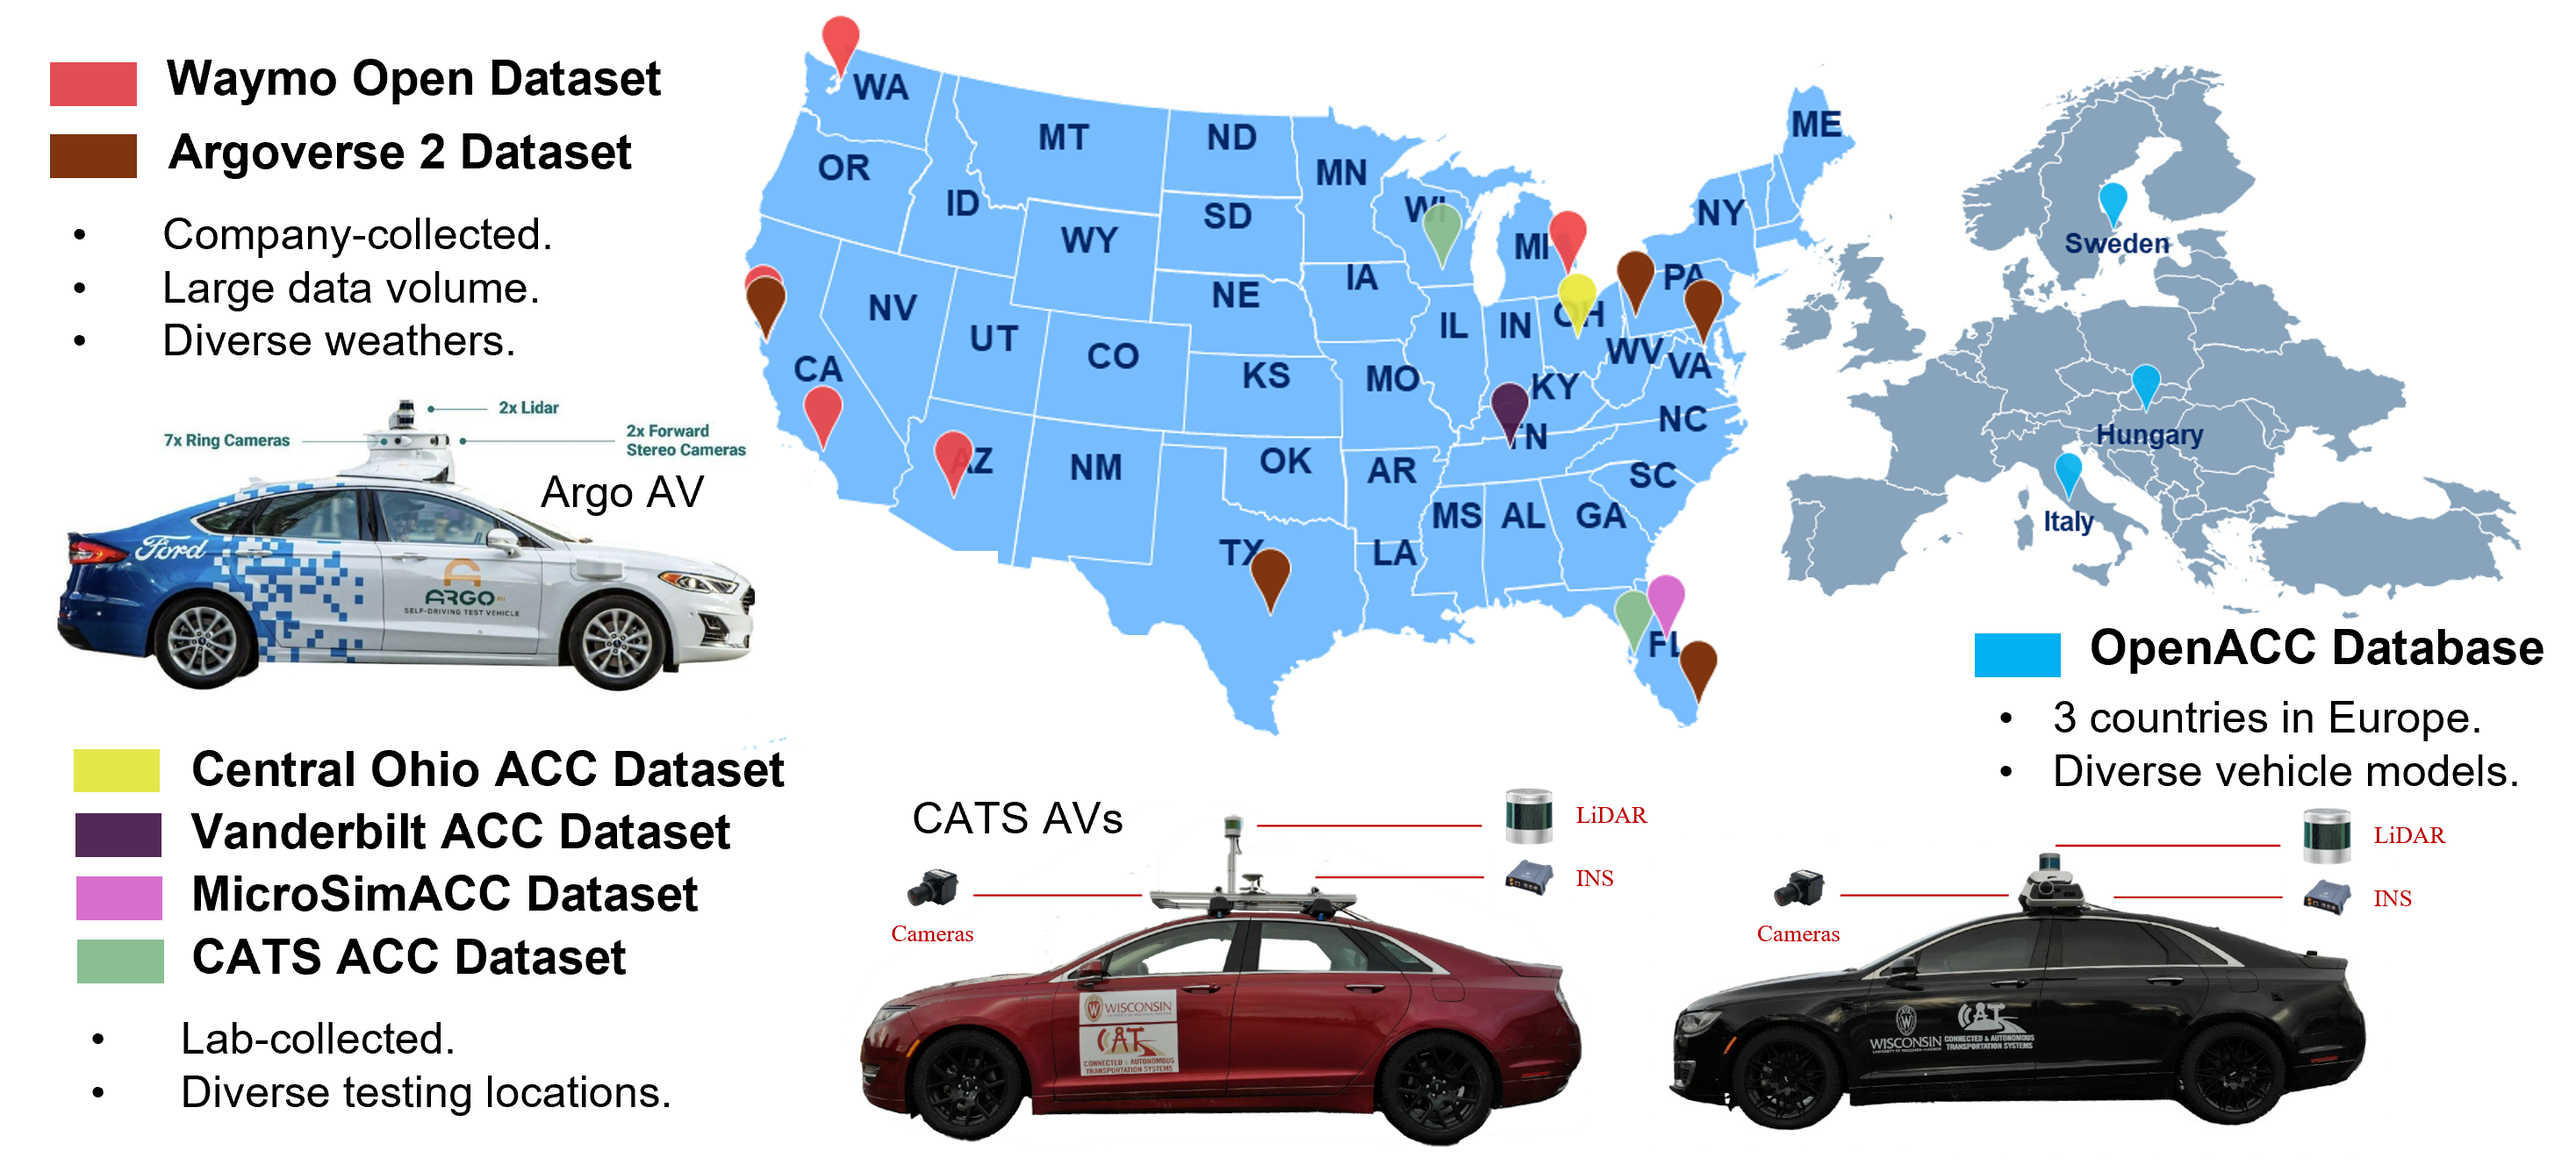
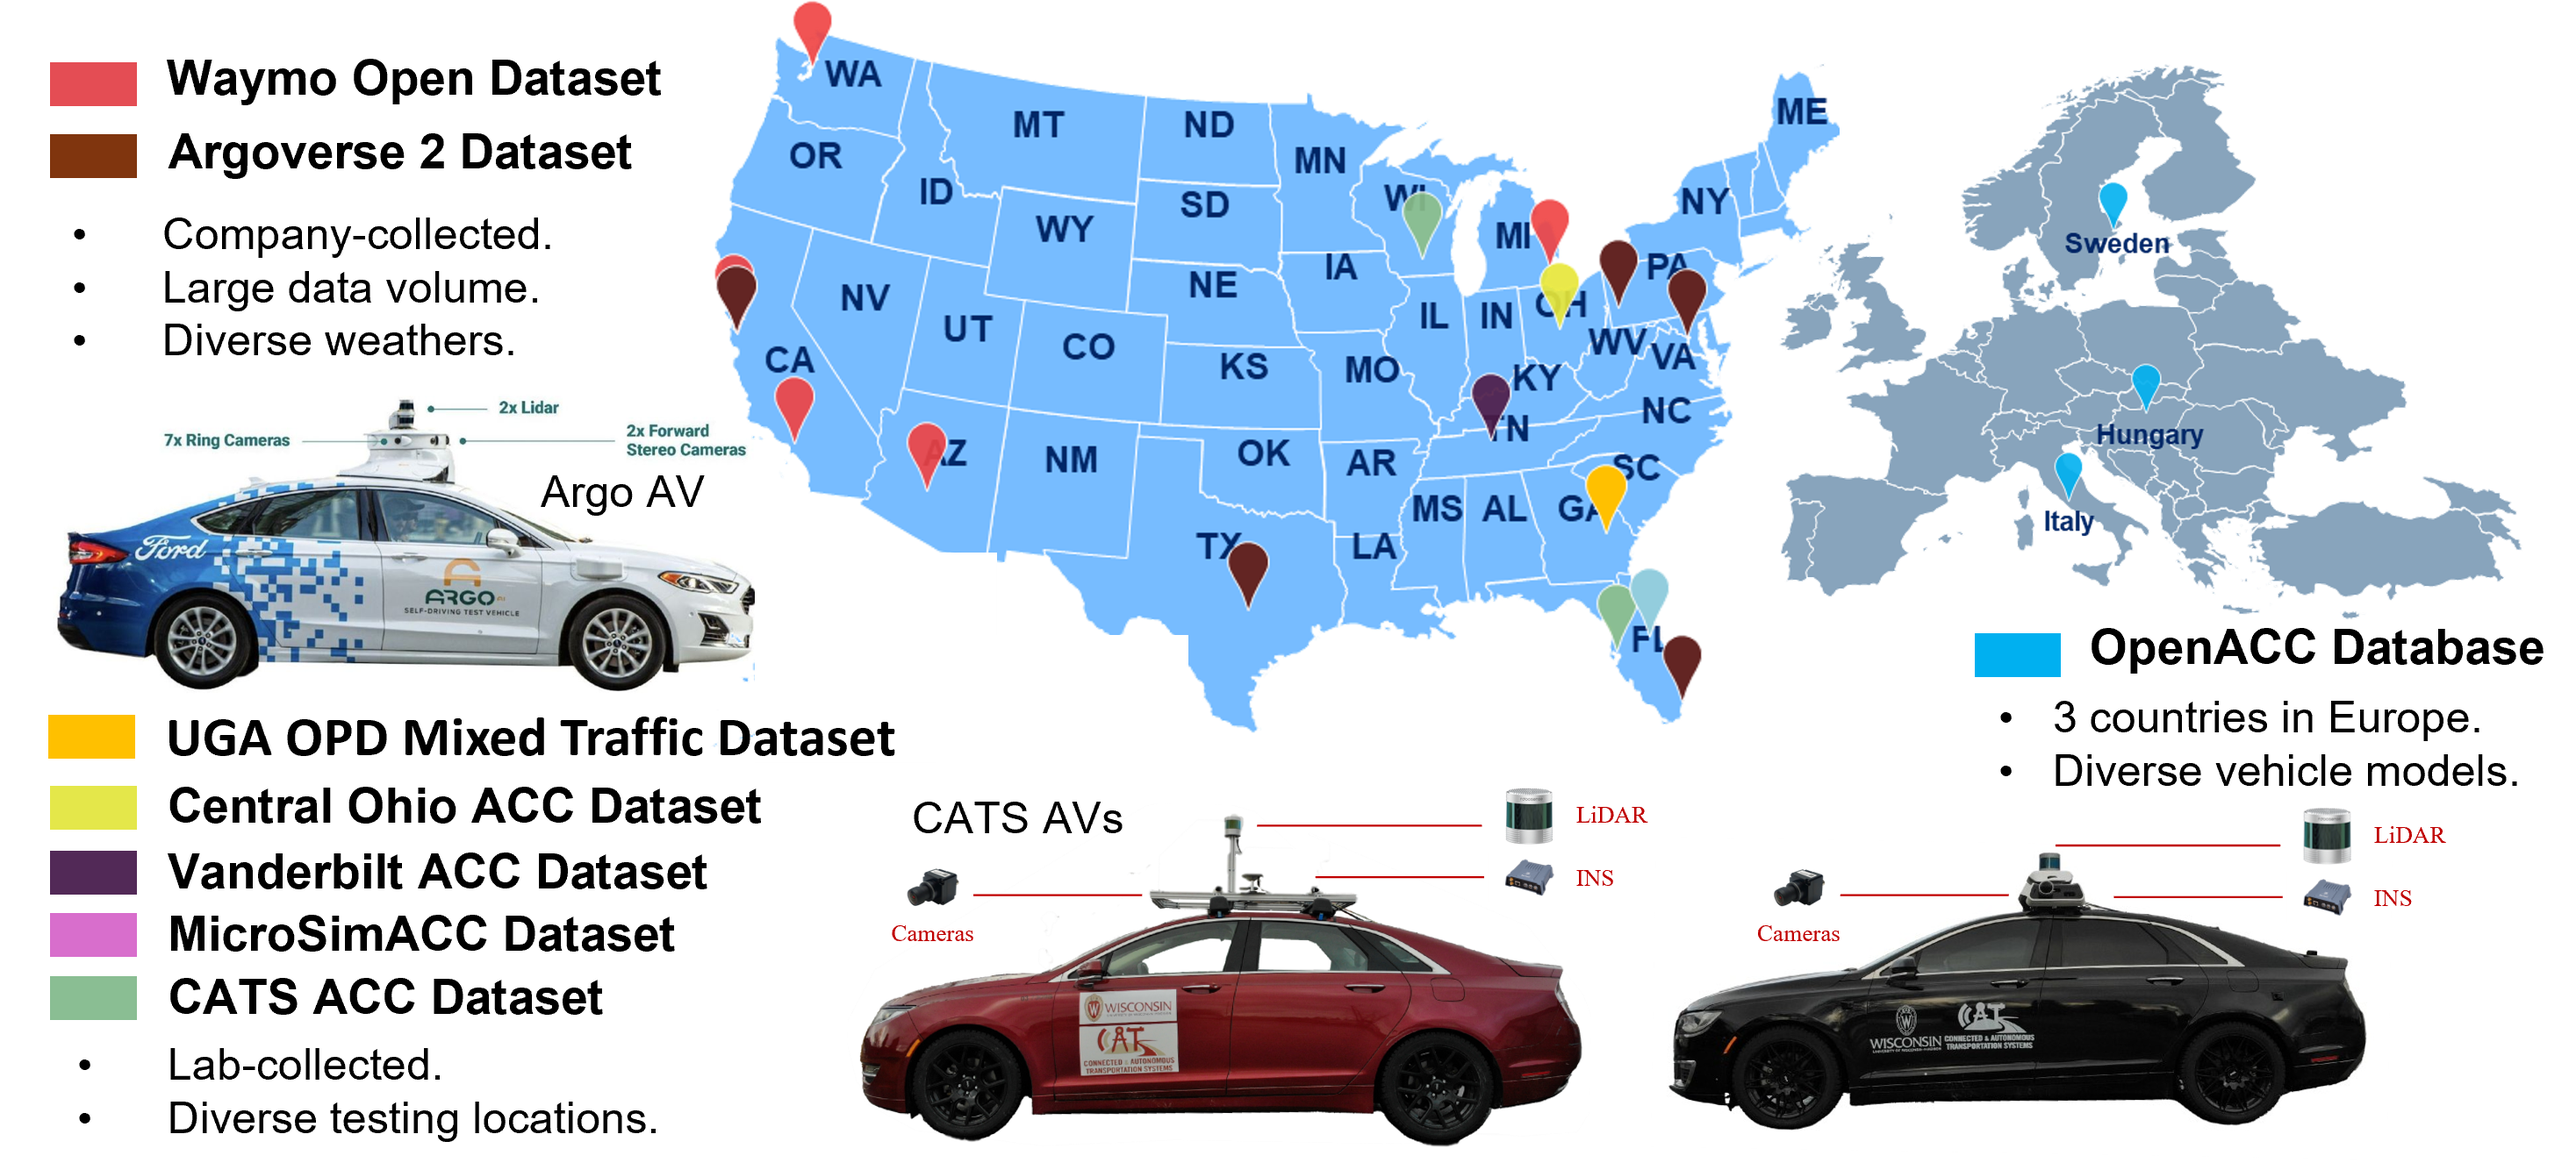
update UGA data and contributors

diff --git a/docs/data.html b/docs/data.html
@@ -52,6 +52,11 @@
           <a href="https://github.com/microSIM-ACC" target="_blank" rel="noreferrer">microSIM-ACC</a>.
         </li>
         <li>
+          <strong>UGA OPD Mixed Traffic Dataset.</strong> Collected in Athens, Georgia by the University of Georgia research group.
+          Available at
+          <a href="https://github.com/UGA-MOBILITY-LAB/ev-car-following-opd" target="_blank" rel="noreferrer">UGA</a>.
+        </li>
+        <li>
           <strong>OpenACC Database.</strong> Four datasets collected across Italy, Sweden, and Hungary by the European Commission Joint Research Centre.
           Available at
           <a href="https://data.europa.eu/data/datasets/9702c950-c80f-4d2f-982f-44d06ea0009f?locale=en" target="_blank" rel="noreferrer">data.europa.eu OpenACC</a>.

diff --git a/README.md b/README.md
@@ -42,17 +42,41 @@ Open-PAV consists of the following components:
 
 ### Contributing Groups
 
-[CATS Lab](https://catslab.engr.wisc.edu/) (PI: [Xiaopeng Li](https://catslab.engr.wisc.edu/staff/xiaopengli/))
+- [CATS Lab](https://catslab.engr.wisc.edu/) (PI: [Xiaopeng Li](https://catslab.engr.wisc.edu/staff/xiaopengli/))
 
-[CAT Lab](http://www.connectedandautonomoustransport.com/dr-zhengs-research.html) (PI: [Zuduo Zheng](https://civil.uq.edu.au/profile/857/zuduo-zheng))
+- [ACEMS Lab](https://github.com/ACEMS-lab) (PI: [Tom Shi](https://www.xiaoweitom.com/))
 
-[SHINE Lab](https://sites.google.com/site/danjuechen/) (PI: Danjue Chen)
+- [CAT Lab](http://www.connectedandautonomoustransport.com/dr-zhengs-research.html) (PI: [Zuduo Zheng](https://civil.uq.edu.au/profile/857/zuduo-zheng))
 
-NextGen-ITS Lab (PI: David Kan)
+- [SHINE Lab](https://sites.google.com/site/danjuechen/) (PI: [Danjue Chen](https://ccee.ncsu.edu/people/danjuechen/))
 
-### Technical Contributors:
+- [NextGen-ITS Lab](https://www.linkedin.com/in/david-kan-89b871ab/) (PI: [David Kan](https://www.linkedin.com/in/david-kan-89b871ab/))
 
-- [Hang Zhou](https://catslab.engr.wisc.edu/staff/zhou-hang/), [Ke Ma](https://markmaaaaa.github.io/KeMa.github.io/), Keke Long , Chengyuan Ma.
+- [Mobility Lab](https://yaohandong.github.io/MobilityLab/index.html) (PI: [Handong Yao](https://engineering.uga.edu/team_member/handong-yao/))
+
+- [KITE Lab](https://github.com/KITE-Lab/) (PI: [Ke Ma](https://www.linkedin.com/in/ke-ma-1b32b0229/))
+
+- [CAMIs Lab](https://sites.google.com/view/camis-uga/people/q-li) (PI: [Qianwen Li](https://engineering.uga.edu/team_member/qianwen-li/))
+
+- [Yanbing Wang's Lab](https://yanbingwang.com/index.html) (PI: [Yanbing Wang](https://yanbingwang.com/index.html))
+
+- [iUTS Lab](http://depts.washington.edu/iuts/wordpress/) (PI: [Xuegang (Jeff) Ban](https://www.ce.washington.edu/facultyfinder/xuegang-jeff-ban))
+
+### Industry Partner
+
+- Gemma Wang (May Mobility)
+
+### Technical Contributors
+
+- [Hang Zhou](https://catslab.engr.wisc.edu/staff/zhou-hang/) (hzhou364@wisc.edu)
+- [Ke Ma](https://markmaaaaa.github.io/KeMa.github.io/) (kma62@wisc.edu)
+- Keke Long (klong23@wisc.edu)
+- Chengyuan Ma (cma97@wisc.edu)
+- [Ziyi Zhang](https://search.asu.edu/profile/5310363) (zzhan657@asu.edu)
+- Xiangyu Li (xli312@connect.hkust-gz.edu.cn)
+- [Mingyuan Yang](https://www.linkedin.com/in/mingyuan/) (mingyuan_yang@txstate.edu)
+- [Tianle Zhu](https://www.linkedin.com/in/tianle-zhu-6aba87251/) (tl.z@uga.edu)
+- Muhammad Fahad (muhamm72@uwm.edu)
 
 ### Related Publications:
 
